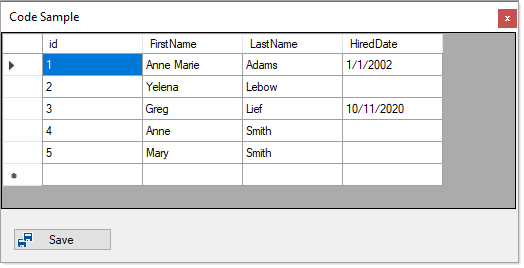
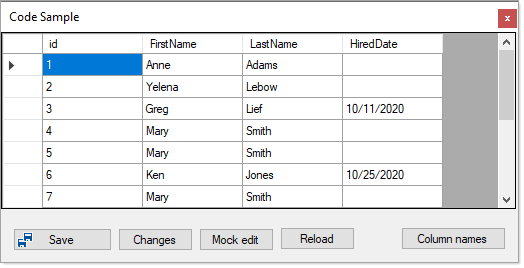
readme

diff --git a/DataAdapterFormApp/readme.md b/DataAdapterFormApp/readme.md
@@ -8,6 +8,7 @@ All data operations are in EmployeeOperations.
 
 - **New rows** the data shown in the DataGridView does not show the primary key, it's there but needs to be brought out with reflection.
 - **Limited exception handling** only in EmployeeOperations, no assertion or try/catch in the form.
+- `08/04/2022` added reloading data from the database
 
 ## Screenshot
 
@@ -15,52 +16,3 @@ Will be only one button for save when finished.
 
 ![image](assets/image.png)
 
-## Form code
-
-```csharp
-using System;
-using System.Windows.Forms;
-using DataAdapterFormApp.Classes;
-
-namespace DataAdapterFormApp
-{
-
-    public partial class Form1 : Form
-    {
-        public Form1()
-        {
-            InitializeComponent();
-            Shown += OnShown;
-        }
-        private void OnShown(object sender, EventArgs e)
-        {
-            var (success, exception) = EmployeeOperations.Load();
-
-            if (success)
-            {
-                dataGridView1.DataSource = EmployeeOperations.BindingSource;
-                dataGridView1.Columns[0].ReadOnly = true;
-            }
-            else
-            {
-                SaveChangeButton.Enabled = false;
-                MessageBox.Show($@"Failed to load data\n{exception.Message}");
-            }
-
-        }
-        private void SaveChangeButton_Click(object sender, EventArgs e)
-        {
-            var (affected, exception) = EmployeeOperations.SaveChanges();
-            if (exception != null)
-            {
-                MessageBox.Show($@"Save failed\n{exception.Message}");
-            }
-            else
-            {
-                MessageBox.Show($@"Affected records {affected}");
-            }
-        }
-    }
-}
-
-```
